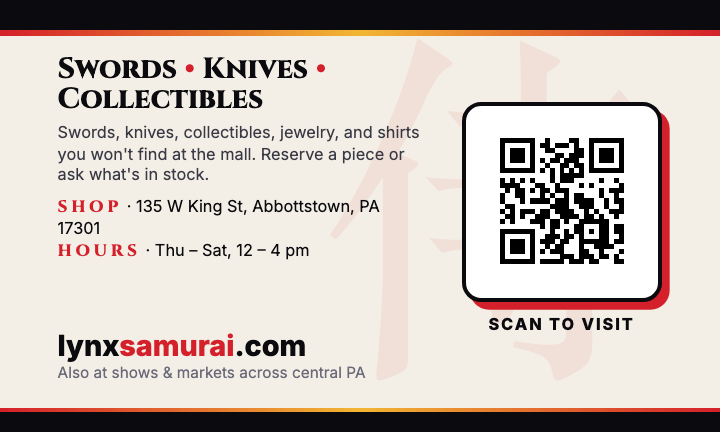
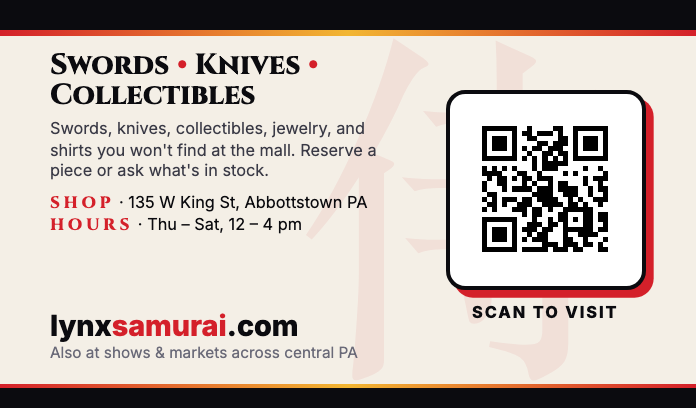
Cards at Amazon spec 3.625x2.125in / 1088x638

diff --git a/print/card-back.html b/print/card-back.html
@@ -3,12 +3,12 @@
 <style>
 :root{--ink:#0b0b0f;--red:#d4202a;--gold:#f2b632;--steel:#c9ccd4;--paper:#f4efe6;--muted:#9a9cab}
 html,body{margin:0;padding:0;background:#888}
-.card{position:relative;width:3.75in;height:2.25in;overflow:hidden;background:var(--paper);font-family:"Inter",sans-serif;color:var(--ink)}
+.card{position:relative;width:3.625in;height:2.125in;overflow:hidden;background:var(--paper);font-family:"Inter",sans-serif;color:var(--ink)}
 .band{position:absolute;left:0;right:0;top:0;height:.16in;background:var(--ink)}
 .band::after{content:"";position:absolute;left:0;right:0;bottom:-.025in;height:.025in;background:linear-gradient(90deg,var(--red),var(--gold),var(--red))}
 .band-b{top:auto;bottom:0;height:.1in}.band-b::after{bottom:auto;top:-.025in}
 .kanji{position:absolute;right:.2in;top:.1in;font-size:1.9in;color:rgba(212,32,42,.07);font-family:serif;line-height:1}
-.inner{position:absolute;inset:.28in .3in .26in .3in;display:flex;gap:.2in;align-items:stretch}
+.inner{position:absolute;inset:.26in .26in .24in .26in;display:flex;gap:.2in;align-items:stretch}
 .left{flex:1;display:flex;flex-direction:column;justify-content:space-between;min-width:0}
 .right{width:1.05in;display:flex;flex-direction:column;align-items:center;justify-content:center}
 .h{font-family:"Cinzel",serif;font-weight:800;font-size:.15in;line-height:1.05;margin:0;color:var(--ink)}.h span{color:var(--red)}
@@ -20,11 +20,11 @@ html,body{margin:0;padding:0;background:#888}
 .qrbox{background:#fff;border-radius:.1in;padding:.07in;border:.03in solid var(--ink);box-shadow:.04in .04in 0 var(--red)}
 .qrbox img{display:block;width:.86in;height:.86in}
 .scan{margin:.07in 0 0;font-size:.085in;font-weight:800;color:var(--ink);text-align:center;letter-spacing:.01in;text-transform:uppercase}
-.trim{position:absolute;inset:.125in;border:1px dashed rgba(11,11,15,.35);pointer-events:none;display:none}body.preview .trim{display:block}
+.trim{position:absolute;inset:.0625in;border:1px dashed rgba(11,11,15,.35);pointer-events:none;display:none}body.preview .trim{display:block}
 </style></head><body><div class="card"><div class="band"></div><div class="band band-b"></div><div class="kanji">侍</div><div class="trim"></div>
 <div class="inner"><div class="left"><div>
 <p class="h">Swords <span>•</span> Knives <span>•</span> Collectibles</p>
 <p class="lead">Swords, knives, collectibles, jewelry, and shirts you won't find at the mall. Reserve a piece or ask what's in stock.</p>
-<p class="visit"><b>Shop</b> · 135 W King St, Abbottstown, PA 17301<br><b>Hours</b> · Thu – Sat, 12 – 4 pm</p>
+<p class="visit"><b>Shop</b> · 135 W King St, Abbottstown PA<br><b>Hours</b> · Thu – Sat, 12 – 4 pm</p>
 </div><div><p class="url">lynx<span>samurai</span>.com</p><p class="sub">Also at shows &amp; markets across central PA</p></div></div>
 <div class="right"><div class="qrbox"><img src="../assets/qr-site.svg" alt="QR code to lynxsamurai.com"></div><p class="scan">Scan to visit</p></div></div></div></body></html>

diff --git a/print/card-front.html b/print/card-front.html
@@ -4,11 +4,11 @@
 /* 3.5x2in + .125in bleed = 3.75x2.25in; 300dpi = 1125x675px */
 :root{--ink:#0b0b0f;--red:#d4202a;--gold:#f2b632;--steel:#c9ccd4;--paper:#f4efe6}
 html,body{margin:0;padding:0;background:#888}
-.card{position:relative;width:3.75in;height:2.25in;overflow:hidden;background:var(--ink);font-family:"Inter",sans-serif;color:var(--steel)}
-.sun{position:absolute;width:3.2in;height:3.2in;border-radius:50%;left:-1.1in;top:-.5in;background:radial-gradient(circle,rgba(212,32,42,.55),rgba(212,32,42,0) 68%)}
+.card{position:relative;width:3.625in;height:2.125in;overflow:hidden;background:var(--ink);font-family:"Inter",sans-serif;color:var(--steel)}
+.sun{position:absolute;width:3in;height:3in;border-radius:50%;left:-1.1in;top:-.5in;background:radial-gradient(circle,rgba(212,32,42,.55),rgba(212,32,42,0) 68%)}
 .slash{position:absolute;height:.03in;width:4.5in;background:linear-gradient(90deg,transparent,var(--red),transparent);transform:rotate(-28deg);opacity:.7}
 .s1{left:-.5in;top:1.7in}.s2{left:.2in;top:2.05in;opacity:.4}
-.inner{position:absolute;inset:.125in;display:flex;align-items:center;gap:.2in;padding:.14in .25in}
+.inner{position:absolute;inset:.0625in;display:flex;align-items:center;gap:.2in;padding:.14in .25in}
 .logo{width:1.25in;height:1.25in;border-radius:.16in;background:var(--paper);padding:.05in;border:.03in solid var(--red);box-shadow:0 0 0 .035in var(--gold);transform:rotate(-2deg);flex:none}
 .logo img{display:block;width:100%;height:100%;object-fit:contain}
 .txt{flex:1;min-width:0}
@@ -17,7 +17,7 @@ html,body{margin:0;padding:0;background:#888}
 .tag{font-family:"Cinzel",serif;font-weight:600;font-size:.085in;letter-spacing:.015in;line-height:1.5;text-transform:uppercase;color:var(--gold);margin:.09in 0 0}
 .rule{height:.02in;width:.9in;background:linear-gradient(90deg,var(--red),var(--gold));margin:.1in 0}
 .url{margin:0;font-size:.14in;font-weight:800;color:#fff;letter-spacing:.005in}.url span{color:var(--gold)}
-.trim{position:absolute;inset:.125in;border:1px dashed rgba(242,182,50,.45);pointer-events:none;display:none}body.preview .trim{display:block}
+.trim{position:absolute;inset:.0625in;border:1px dashed rgba(242,182,50,.45);pointer-events:none;display:none}body.preview .trim{display:block}
 </style></head><body><div class="card"><div class="sun"></div><div class="slash s1"></div><div class="slash s2"></div><div class="trim"></div>
 <div class="inner"><div class="logo"><img src="../assets/logo.png" alt="Lynx Samurai logo"></div>
 <div class="txt"><p class="name">LYNX <span>SAMURAI</span></p><p class="tag">Swords • Knives • Collectibles<br>Jewelry • Shirts</p><div class="rule"></div><p class="url">lynx<span>samurai</span>.com</p></div></div></div></body></html>

diff --git a/print/render_amazon.js b/print/render_amazon.js
@@ -1,0 +1,1 @@
+const {chromium}=require('@playwright/test');(async()=>{const b=await chromium.launch();for(const side of ['front','back']){for(const [name,scale] of [['card-'+side+'-clean.png',2],['card-'+side+'-amazon-1088x638.png',1088/348]]){const p=await b.newPage({viewport:{width:348,height:204},deviceScaleFactor:scale});await p.goto('file:///Users/nick/.openclaw/workspace-focus-nexus-codex/lynx-samurai/print/card-'+side+'.html');await p.waitForTimeout(1500);await p.locator('.card').screenshot({path:'/Users/nick/.openclaw/workspace-focus-nexus-codex/lynx-samurai/print/'+name});}}await b.close();})();
